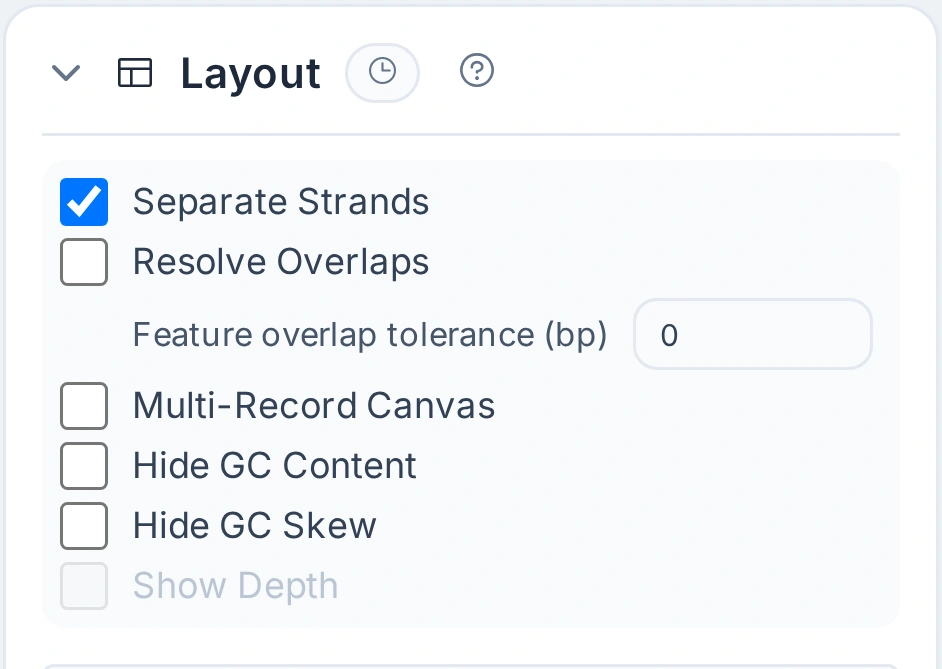
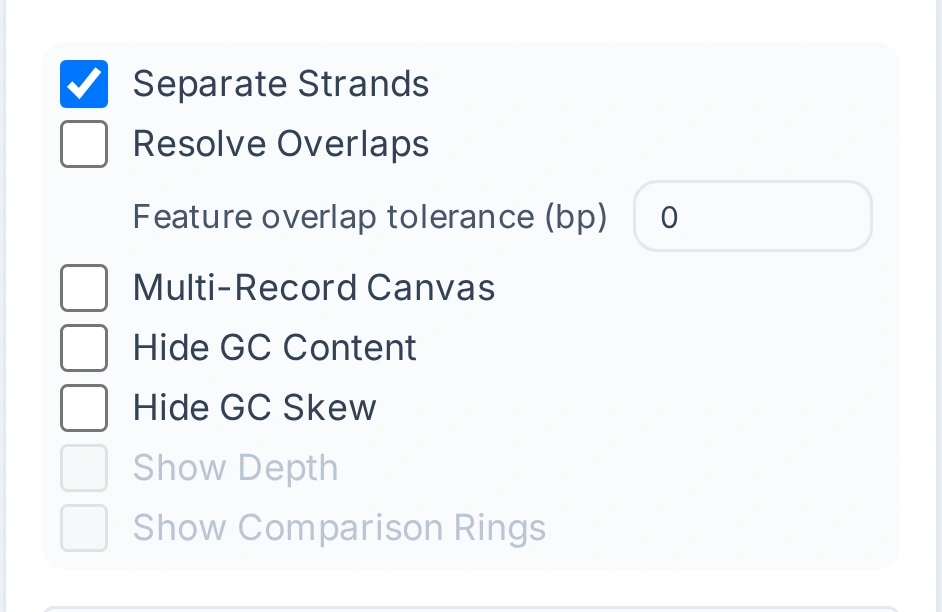
Recapture the plastome Layout crop and keep one on-Axis rule in the stack editor
- Gallery tobacco-chloroplast manual-08-01 crops the layout checkboxes alone; the
  Figure size block now sits between the Layout heading and them (OV-3154).
- The insideFloor reducer and syncSlotsFromAxisIndex use isOnAxisSlot.
- The capture contract forbids adding an Annotations row in both region flows.
- The docs table and Gallery step 7 name Cover anchor on; tables say Inside axis.

diff --git a/tests/web/gallery-tutorial.playwright.spec.js b/tests/web/gallery-tutorial.playwright.spec.js
@@ -561,12 +561,12 @@ test('Gallery restores the tobacco chloroplast region-annotation example', async
   await expect(tutorialPanel.getByRole('row', { name: 'Circular Label Placement Radial' })).toBeVisible();
   await expect(
     tutorialPanel.getByRole('row', {
-      name: 'plastome_tint Annotations Annotation set: plastome_tint; Annotation placement: overlay; Enabled drawable anchor: features; Annotation layer: underlay; Extend to: gc_content; Show annotation labels: off; Padding: 0'
+      name: 'plastome_tint Annotations Annotation set: plastome_tint; Annotation placement: overlay; Enabled drawable anchor: features; Annotation layer: underlay; Cover anchor: on; Extend to: gc_content; Show annotation labels: off; Padding: 0'
     })
   ).toBeVisible();
   await expect(
     tutorialPanel.getByRole('row', {
-      name: 'plastome_regions Annotations Inside 0.65 ×R 20 px Annotation set: plastome_regions; Show annotation labels: on; Overflow: Compress; Padding: 1; Inner and Outer gap: 1'
+      name: 'plastome_regions Annotations Inside axis 0.65 ×R 20 px Annotation set: plastome_regions; Show annotation labels: on; Overflow: Compress; Padding: 1; Inner and Outer gap: 1'
     })
   ).toBeVisible();
   await expect(tutorialPanel.getByRole('row', { name: 'Multi-Record Canvas Off' })).toBeVisible();

diff --git a/gbdraw/web/js/services/circular-track-slot-model.js b/gbdraw/web/js/services/circular-track-slot-model.js
@@ -533,9 +533,9 @@ export const syncSlotsFromAxisIndex = (slots, axisIndex, preset = 'tuckin') => {
   const resolvedAxis = axis === null ? inferLegacyAxisIndexFromFeature(slots, preset) : axis;
   slots.forEach((slot, index) => {
     if (!slot) return;
-    if (slot.renderer === 'annotations' && effectiveSlotPlacement(slot, preset) === 'overlay') return;
     if (effectiveSlotPlacement(slot, preset) === 'overlay') {
-      syncSlotPlacementFromSide(slot, 'overlay');
+      // An Overlay Annotations row keeps its own placement fields.
+      if (isOnAxisSlot(slot, preset)) syncSlotPlacementFromSide(slot, 'overlay');
       return;
     }
     if (slot.renderer === 'features' && featureLaneForSlot(slot, preset) === 'split') {

diff --git a/gbdraw/web/js/app/circular-track-slots.js b/gbdraw/web/js/app/circular-track-slots.js
@@ -922,13 +922,7 @@ export const createCircularTrackSlotEditor = ({
         ? /** @type {number} */ (preferredInsertIndex)
         : axis;
       const insideFloor = committed.reduce((floor, slot, index) => {
-        if (
-          index < axis ||
-          slot?.renderer === 'annotations' ||
-          effectiveSlotPlacement(slot, drawing.form.track_type) !== 'overlay'
-        ) {
-          return floor;
-        }
+        if (index < axis || !isOnAxisSlot(slot, drawing.form.track_type)) return floor;
         return Math.max(floor, index + 1);
       }, axis);
       const insertIndex = Math.max(

diff --git a/tests/test_gui_tracks_capture_contracts.py b/tests/test_gui_tracks_capture_contracts.py
@@ -16,6 +16,9 @@ pytestmark = pytest.mark.recipe
 
 REPO_ROOT = Path(__file__).resolve().parents[1]
 FLOW_PATH = REPO_ROOT / "docs" / "capture" / "flows" / "how_to" / "tracks.py"
+CHLOROPLAST_FLOW_PATH = (
+    REPO_ROOT / "docs" / "capture" / "flows" / "tutorials" / "gui_annotated_chloroplast.py"
+)
 INDEX_PATH = REPO_ROOT / "gbdraw" / "web" / "index.html"
 DEPTH_ROOT = REPO_ROOT / "gbdraw" / "web" / "tutorial-data" / "depth-1kb"
 TOBACCO_ROOT = (
@@ -151,10 +154,20 @@ def test_track_flows_use_visible_accessible_controls_without_state_injection() -
         "region_start",
         "region_end",
         "part_",
-        # A second Annotations row would draw the set twice (OV-3151).
-        'select_option("annotations")',
     ):
         assert forbidden not in source
+
+
+@pytest.mark.parametrize(
+    "flow_path",
+    (FLOW_PATH, CHLOROPLAST_FLOW_PATH),
+    ids=("H-GUI-10", "T-GUI-05"),
+)
+def test_region_flows_edit_the_rows_use_custom_stack_gives_each_set(flow_path: Path) -> None:
+    source = flow_path.read_text(encoding="utf-8")
+    # Use custom stack already gives each region set a row; adding another
+    # Annotations row draws that set twice (OV-3151).
+    assert 'select_option("annotations")' not in source
 
 
 def test_track_capture_accessibility_labels_are_part_of_the_public_ui() -> None:

diff --git a/docs/capture/flows/tutorials/gui_annotated_chloroplast.py b/docs/capture/flows/tutorials/gui_annotated_chloroplast.py
@@ -7,7 +7,7 @@ import re
 from pathlib import Path
 from typing import Any, Mapping
 
-from playwright.sync_api import BrowserType, Page, expect
+from playwright.sync_api import BrowserType, Locator, Page, expect
 
 from flows.how_to.tracks import (
     GUI_ANNOTATION_GENBANK_PATH,
@@ -329,7 +329,7 @@ def _remove_slot_if_present(page: Page, slot_id: str) -> None:
         run_track_slot_row_action(group, "Remove")
 
 
-def _rename_slot(page: Page, slot_id: str, new_id: str) -> Any:
+def _rename_slot(page: Page, slot_id: str, new_id: str) -> Locator:
     group = page.get_by_role("group", name=f"Circular track slot {slot_id}", exact=True)
     group.get_by_label(f"Circular track slot id {slot_id}", exact=True).fill(new_id)
     return page.get_by_role("group", name=f"Circular track slot {new_id}", exact=True)

diff --git a/docs/TUTORIALS/build-an-annotated-chloroplast-map.md b/docs/TUTORIALS/build-an-annotated-chloroplast-map.md
@@ -118,15 +118,15 @@ starts with a row for each annotation set: `annotations_1` for
 an **Overlay anchor** row under the features with only **Highlight** marked
 and **padding** `0`. Remove the **Ticks** and **GC skew** rows. Rename
 `annotations_1` to `plastome_regions` and `annotations_2` to `plastome_tint`,
-then set the rows as in the table. **Inside** puts `plastome_regions` between
+then set the rows as in the table. **Inside axis** puts `plastome_regions` between
 the features and GC content.
 
 | Slot | Renderer | Position | Radius | Width | Other settings |
 | --- | --- | --- | ---: | ---: | --- |
-| `plastome_tint` | Annotations | Overlay anchor | — | — | Set `plastome_tint`; anchor `features`; **Underlay**; **Extend to** `gc_content`; **Marks**: **Highlight** only; **Labels** off; **padding** `0` |
+| `plastome_tint` | Annotations | Overlay anchor | — | — | Set `plastome_tint`; anchor `features`; **Underlay**; **Cover anchor** on; **Extend to** `gc_content`; **Marks**: **Highlight** only; **Labels** off; **padding** `0` |
 | `features` | Features | On axis | Auto | Auto | Feature on axis / split |
-| `plastome_regions` | Annotations | Inside | `0.65 ×R` | `20 px` | Set `plastome_regions`; labels on; compress; inner/outer gap `1`; padding `1` |
-| `gc_content` | Dinucleotide content | Inside | `0.56 ×R` | `0.08 ×R` | GC |
+| `plastome_regions` | Annotations | Inside axis | `0.65 ×R` | `20 px` | Set `plastome_regions`; labels on; compress; inner/outer gap `1`; padding `1` |
+| `gc_content` | Dinucleotide content | Inside axis | `0.56 ×R` | `0.08 ×R` | GC |
 
 Enter the number and select **px** or **×R** in each Width/Radius control.
 R is the base circle radius. Keep the features fields empty for Auto.

diff --git a/docs/internal/WEB_GALLERY_OPERATION_SCREENSHOT_REGISTER.md b/docs/internal/WEB_GALLERY_OPERATION_SCREENSHOT_REGISTER.md
@@ -118,6 +118,7 @@ are unchanged.
 | `tobacco-chloroplast` | `manual-06-02-region-ring-slots.webp` | Recapture; recipe changed | Replay through step 6 in a 1400x2200 viewport (the sticky Generate button stays below the panel): annotations_2, features, plastome_regions, gc_content | Captured at DSF 3; accepted |
 | `tobacco-chloroplast` | `manual-06-03-regions-preview.webp` | Recapture | Replay through step 6; plastome_regions is row 2 | Captured at DSF 3; accepted |
 | `tobacco-chloroplast` | `manual-07-01-custom-track-slots.webp` | Recapture; recipe changed | Replay through step 7 (it read the Session's stack, whose listing order a reader no longer gets) in a 1400x2200 viewport: plastome_tint, features, plastome_regions, gc_content | Captured at DSF 3; accepted |
+| `tobacco-chloroplast` | `manual-08-01-layout-options.webp` | Recapture; crop changed (OV-3154) | Replay through step 8; the crop is the layout checkboxes alone, because the Figure size block now sits between the Layout heading and them and a heading-to-checkboxes crop grew to 942x1035 | Captured at DSF 3; accepted |
 | `tobacco-chloroplast` | `manual-07-02-tint-preview.webp`, `manual-08-02-chloroplast-preview.webp` | Keep | Replay through steps 7 and 8; the recapture differed only by encoding noise | Kept |
 
 ## Progressive HmmtDNA_ATskew, tobacco-chloroplast, and Vnig_TUMSAT-TG-2018 tutorials (2026-10-23)
